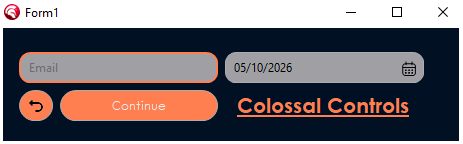
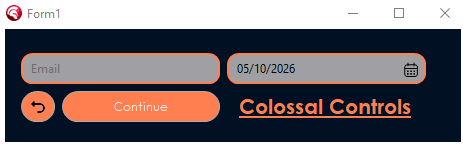
docs: updating license information

diff --git a/README.md b/README.md
@@ -278,6 +278,7 @@ RoundButton2.Transparent := True;
 ColossalComponents/
 ├── ColossalControls.dpk     Package source
 ├── ColossalControls.dproj   Package project
+├── LICENSE                  MIT License
 ├── src/
 │   ├── uColossalDraw.pas    Shared drawing helpers (GDI+ colors and shapes, transparent background)
 │   ├── uRoundEdit.pas       TRoundEdit component
@@ -300,4 +301,4 @@ ColossalComponents/
 
 ## License
 
-No license specified yet.
+Released under the [MIT License](LICENSE).
